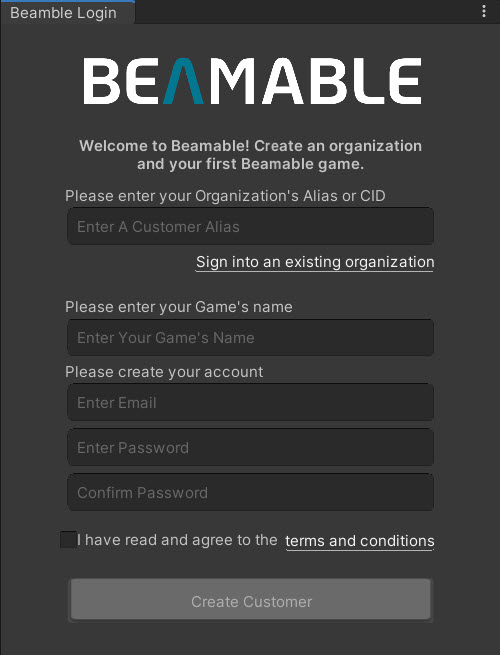
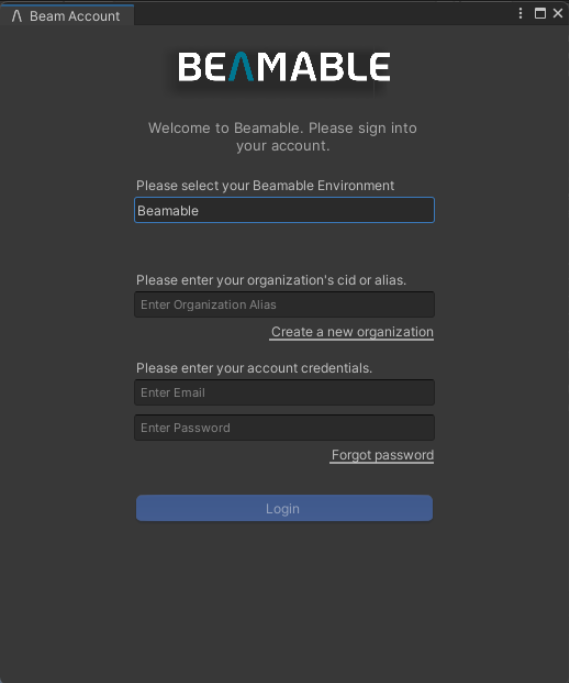
Work on the Installation page

diff --git a/docs/unity/getting-started/installing-beamable.md b/docs/unity/getting-started/installing-beamable.md
@@ -1,30 +1,23 @@
-# Installing Beamable (Unity)
+# Setup Unity SDK (Unity)
 
 Welcome to Beamable! This guide will walk you through the steps required to install the Beamable SDK into a Unity project.
-
-## Setup Unity
-
-Create or open your Unity Project. For new projects, populate the Project Name, Location, and Template in the Unity "Hub" Window. 
-
-Press the "Create" button to continue.
 
 !!! info "Compatibility"
 
     • Beamable supports Unity versions 2021.3 to 2023.3 and is compatible with all template types  
     • Beamable supports Windows, Mac, iOS, Android, and WebGL platforms
 
-![unity_hub_new_project_2019.jpg](../../media/imgs/unity_hub_new_project_2019.jpg)
 
-## Setup Beamable SDK
+## Signing Up Account in Beamable Portal
 
-A Beamable license is required before completing the setup process below. Beamable cannot be downloaded, installed, or used without a license.
+To start using Beamable in your project you need to have a valid Account in our Platform. Please do so via our [Portal](https://portal.beamable.com/signup/registration). Please remember your **Alias** as it'll be used to log into the SDK in your editor or via the Beamable CLI.
 
-!!! warning "License Required"
 
-    • Sign up for Beamable today by [choosing a plan](https://www.beamable.com/pricing)! You can also [contact us](https://www.beamable.com/contact-us) if you have any questions  
-    • License confirmation includes the **[Beamable SDK Installer Package](https://packages.beamable.com/com.beamable/Beamable_SDK_Installer.unitypackage)** file required for Step 3 below
+## Downloading and Installing the Beamable SDK
 
-Now use the **[Beamable SDK Installer Package](https://packages.beamable.com/com.beamable/Beamable_SDK_Installer.unitypackage)** file to install the Beamable SDK.
+You can Download the Beamable SDK Installer Package [Here](https://packages.beamable.com/com.beamable/Beamable_SDK_Installer.unitypackage).
+
+Once downloaded, follow these steps to install the Beamable SDK into your Unity project.
 
 | Step | Detail |
 |------|--------|
@@ -32,58 +25,33 @@ Now use the **[Beamable SDK Installer Package](https://packages.beamable.com/com
 | 2. Verify the import | ![Verify Import](../../media/imgs/step-2-verify-import.png)<br>• Press the "Import" button |
 | 3. Install the **Beamable SDK** | ![Install SDK](../../media/imgs/step-3-install-sdk.png)<br>• Click to continue |
 | 4. Remove the **Beamable SDK Installer Package** | ![Remove Package](../../media/imgs/step-4-remove-package.png)<br>• Click to continue<br>*Note: Now that the installation process is complete, the installer package is no longer needed.* |
+| 5. **Install Dotnet (if required)** | Starting with the Unity 2.1.0 SDK, Beamable requires that you have dotnet 8.0.302 installed on your machine. If you don't, the Beamable SDK will offer a download option for you, and once you've finished installing it, you can continue through the dialog. |
 
 Congratulations the Beamable SDK is now installed!
 
-!!! info "Dotnet Required"
+## Logging-In the Beamable SDK
 
-    Starting with the Unity 2.1.0 SDK, Beamable requires that you have dotnet 8.0.302 installed on your machine. If you don't, the Beamable SDK will offer a download option for you, and once you've finished installing it, you can continue through the dialog.
+Open the Beamable Toolbox Window by clicking the Beamable button in the Unity toolbar.  Now see the Beamable Login Window prompts for user account credentials. Enter the Organization Alias and Password you created when you signed up for Beamable.
 
-## Usage
+<div class="login-window">
+![Beamable Login Window](../../media/imgs/Beamable_Windows_Login_New_User.jpg)
+</div>
 
-Open the Beamable Toolbox Window by clicking the Beamable button in the Unity toolbar.
+Now you're ready to start your first Beamable project!
 
-Now see the Beamable Login Window prompts for user account registration.
+## Verifying the Installation
+To confirm that the Beamable SDK is properly installed and working, we'll create a simple test that displays your player's unique PlayerId both on-screen and in the Unity Console. This demonstrates that Beamable is successfully creating and managing player accounts.
 
-![Beamable_Windows_Login_New_User.jpg](../../media/imgs/Beamable_Windows_Login_New_User.jpg)
+| Step | Action | Expected Result |
+|------|--------|----------------|
+| 1. **Create a new Unity Scene** | • **File** → **New Scene**<br>• Choose **Basic (Built-in)** or **Basic (URP/HDRP)** template<br>• Save the scene with **Ctrl+S** (name it "BeamableTest") | A new empty scene appears in the Scene view |
+| 2. **Open the Beamable Library** | • Click the **Beamable** button in the Unity toolbar<br>• Select **Open Beam Library** from the dropdown menu | The Beamable Library window opens, showing available prefabs and samples |
+| 3. **Add the Admin Flow Prefab** | • In the Beamable Library window, locate **"Admin Flow"** prefab<br>• Drag and drop it into your scene hierarchy<br>• Position it anywhere in the scene (position doesn't matter) | The Admin Flow prefab appears in your scene hierarchy and Scene view |
+| 4. **Enter Play Mode** | • Click the **Play** button in Unity (or press **Ctrl+P**)<br>• Wait for the scene to fully load | The scene starts playing, and Beamable initializes in the background |
+| 5. **Open the In-Game Console** | • Press the **`~`** key (tilde, usually above Tab)<br>• If that doesn't work, try **`** (backtick) or check the Admin Flow UI for a console button | A console overlay appears on your game screen |
+| 6. **Request Your PlayerId** | • In the console input field, type: **`dbid`**<br>• Press **Enter** to submit the command | Your unique PlayerId appears both:<br>• On-screen in the console<br>• In Unity's Console window |
+| 7. **Verify Success** | • Check that you see a PlayerId like: `1234567890123456789`<br>• Open Unity's Console window (**Window** → **General** → **Console**)<br>• Confirm the same PlayerId appears there | ✅ **Success!** Beamable is working correctly |
 
-| Field | Detail |
-|-------|--------|
-| Customer Alias | • Enter the name of your studio (e.g. "MyGameStudio")<br><br>*Note: This may contain spaces* |
-| Game Name | • Enter the name of your game project. Use the real name of the game if possible (e.g. "My Game Name")<br><br>*Note: This may contain spaces* |
-| Email | • Enter a valid email address. This is important for notifications about the service<br><br>*Note: This may contain numbers, letters, and symbols* |
-| Password | • Enter a secure password |
-| Confirm Password | • Confirm you typed it correctly |
-| Agree To Terms | • Beamable is available free for development, but you agree to a commercial agreement when you ship your game<br><br>*Note: See [Pricing](https://www.beamable.com/pricing) and [FAQ](https://docs.beamable.com/docs/faq) for more info* |
-| Create Customer | • Click to continue |
-| Open The Library | • Click the "See Samples" button at the end of the login flow |
-
-## Verify Success
-
-To verify the installation was successful, display the current player's PlayerId on-screen and in the Unity Console Window.
-
-| Step | Detail |
-|------|--------|
-| 1. Create a new Unity Scene | • Unity → File → New Scene |
-| 2. Open the "Beam Library" Window | • Unity → Beam Button → Open Beam Library |
-| 3. Add the "Admin Flow" Prefab | • Add this prefab to your scene |
-| 4. Play the Scene | • Unity → Edit → Play |
-| 5. Open the in-game console | • Press the "~" key |
-| 6. Display the current player's **PlayerId** on-screen and in the Unity Console Window | • Type "dbid" into the in-game input field and submit |
-| 7. Success! | |
-
-!!! info "PlayerId"
-
-    • Beamable will generate an anonymous account PlayerId for a player when the project is run. Stopping and restarting the project will persist the player account.
-
-    • Want to track player accounts across multiple games? Easy. Add the Account Management Flow Prefab and Beamable will take care of the rest.
-
-!!! warning "Gotchas"
-
-    Here are some common issues and solutions:
-
-    • Sometimes copy/paste operations into Beamable text fields can carry hidden characters. If you are getting an error with copy/paste, try to manually type the desired value  
-    • If there are still any issues, restarting Unity may help. Otherwise, please [contact us](https://www.beamable.com/contact-us)
 
 ## CLI Dependency
 
@@ -94,8 +62,6 @@ The `.config` folder has a file called `dotnet-tools.json` which specifies the v
 !!! danger "User Beware: Changing the CLI version may cause issues"
 
     Starting in SDK 3.0, you _may_ disable the SDK's explicit control of the `dotnet-tools.json` by enabling the `Beamable/Editor/AdvancedCli/Disable Version Requirement` setting in Unity's Project Settings window. If you do this, please understand that the Beamable SDK may stop functioning, as it is trying to use an unplanned version.
-
-## CLI Version History
 
 As new versions of the Beamable SDK are released, they depend on different Beam CLI versions. This table shows which versions of the Beamable SDK depend on what CLI versions. 
 

diff --git a/docs/unity/getting-started/SUMMARY.md b/docs/unity/getting-started/SUMMARY.md
@@ -1,1 +1,1 @@
-- [Installing Beamable](installing-beamable.md)
+- [Setup Unity SDK](installing-beamable.md)
